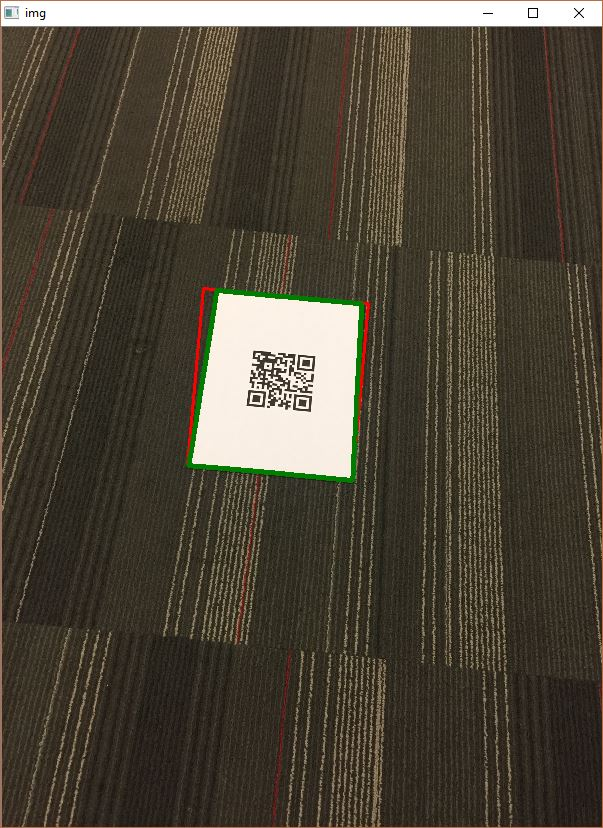
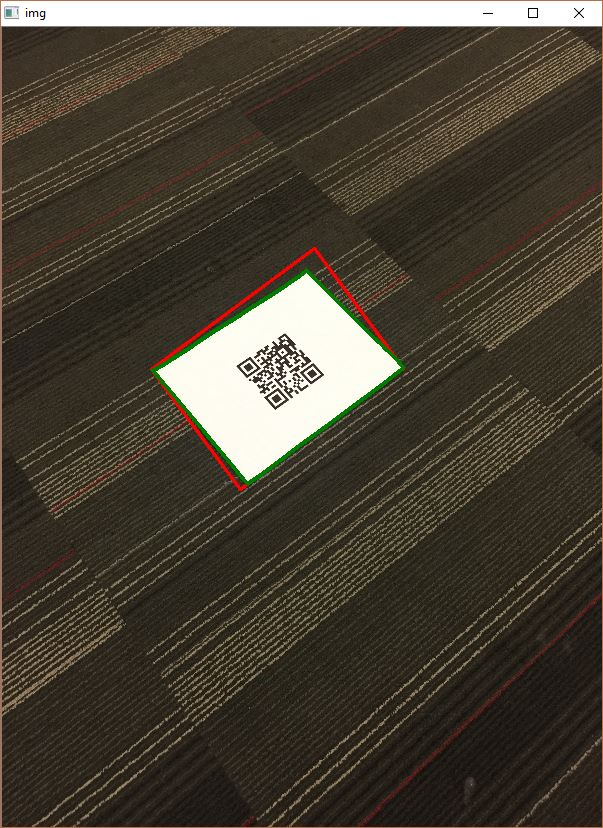
DroneDeploy coding challenge

diff --git a/drone.py b/drone.py
@@ -1,17 +1,40 @@
+'''
+Author: Jordan Ott
+DroneDeploy Coding Test
+
+Method
+# Using OpenCV
+# we can use pixel scaling to tell us our distance from the barcode
+#	+ we know the barcode is printed on an 8.5 by 11 inch piece of paper
+#	+ at 1 foot away the paper is 450 by 580 px
+# 	+ at 2 feet away the paper is 219 by 285 px
+# 	+ measuring the dimensions of the paper we can use these scaling factors to tell how far away the photo was taken
+# find 'skew' between the front of the paper and the back of the paper
+# 	+ this value in combination with our distance from the paper will tell us what angle we are looking at the paper from
+# 	+ i.e. directly over it or some angle x from it
+# lastly we will need to detect the three smaller squares within the barcode
+# 	+ this will allow us to find how the barcode is rotated and will give us our third position
+'''
 import cv2
 import numpy as np
+import math
 
 # read in image... opencv converts to numpy ndarray
-img = cv2.imread('images/IMG_6722.jpg')
+img = cv2.imread('images/IMG_6723.jpg')
 img = cv2.resize(img, (600, 800))   
 
+def mid_point(point_A, point_B):
+	return [(point_A[0]+point_B[0])/2, (point_A[1]+point_B[1])/2]
+
+def distance(point_A, point_B):
+	return math.sqrt( (point_A[0] - point_B[0])**2 + (point_A[1] - point_B[1])**2 )
 # convert image to gray scale
 imgray = cv2.cvtColor(img,cv2.COLOR_BGR2GRAY)
 
-# threshold on image
 # note the high threshold so we are easily able to destinguish between the white paper and everything else
 # this works as long as we are not looking at an all white background
-ret,thresh = cv2.threshold(imgray,200,255,cv2.THRESH_BINARY)
+ret,thresh = cv2.threshold(imgray,190,255,cv2.THRESH_BINARY)
+
 # contouring, this helps to find the white paper
 im2, contours, hierarchy = cv2.findContours(thresh, cv2.RETR_TREE,cv2.CHAIN_APPROX_SIMPLE)
 
@@ -21,37 +44,91 @@ max_index = np.argmax(areas)
 cnt=contours[max_index]
 
 x,y,w,h = cv2.boundingRect(cnt)
-#cv2.rectangle(img,(x,y),(x+w,y+h),(0,255,0),2)
 
+# this portion will find how the barcode is rotated
+d = {}
+for c in contours:
+	# finding centers of all contours, this will help to find the 3 squares which designate the orientation of the symbol
+	M = cv2.moments(c)
+	if M["m00"] == 0:
+		continue
+	cX = int(M["m10"] / M["m00"])
+	cY = int(M["m01"] / M["m00"])
+	if d.get((cX, cY),0):
+		d[(cX, cY)] += 1
+	else:
+		d[(cX, cY)] = 1
+three_hits = []
+two_hits = []
+for key in d:
+	if d[key] == 3:
+		three_hits.append(key)
+	if d[key] == 2:
+		two_hits.append(key)
+# this will be used if the rotation of the barcode is necassary, for now I will use the rotation of the rectangle 
+if len(three_hits) == 3:
+	pass
+elif len(three_hits) == 2:
+	pass
+else:
+	pass
 
 rect = cv2.minAreaRect(cnt)
 box = cv2.boxPoints(rect)
+
 box = np.int0(box)
 cv2.drawContours(img,[box],0,(0,0,255),2)
+angle = rect[2]
 
-# method to find corners
-def find_difference_in_rectangle():
-	# calculate approximate distance from the minAreaRect we found about to the points contouring the sheet of paper
-	# we use these numbers in conjunction with the pixel scale distance to tell how much our view of the paper is skewed
-	# this will tell us at what angle we are viewing the image
+min_dist = 1000
+# here we find the distance, in pixels, from the contour corner to the bounded rectangle
+for point in box:
+	temp_dist = distance(cnt[0][0],point)
+	min_dist = min(min_dist,temp_dist)
+# the min_distance will be used to show the amount of skew in the image due to the angle the phone is at relative to the barcode
 
-def find_pixel_scale():
-	# find center of barcode
-	# count number of pixels to edge of barcode
-	# this represents 4.4cm in our image
-	
 
-# we can use pixel scaling to tell us our distance from the barcode
-#	+ i.e. from the center of the barcode to the edge it is roughly 4.4cm we use those amount of pixels to scale the rest of the image
-# 	+ this value will tell us how far away we are
-# find 'skew' between the front of the paper and the back of the paper
-# 	+ this value in combination with our distance from the paper will tell us what angle we are looking at the paper from
-# 	+ i.e. directly over it or some angle x from it
-# lastly we will need to detect the three smaller squares within the barcode
-# 	+ this will allow us to find how the barcode is rotated and will give us our third position
+# here we use the bounded rectangle box to determine how far away from the barcode the camera is in feet
+A = box[0]
+B = box[1]
+C = box[2]
+D = box[3]
 
-# the combination of these three points will allow us to find the (x,y,z) coordinate at which the picture was taken
+A_B = mid_point(A,B)
+C_D = mid_point(C,D)
 
+A_D = mid_point(A,D)
+B_C = mid_point(B,C)
+
+AD_BC_dist = distance(A_D,B_C)
+AB_CD_dist = distance(A_B,C_D)
+
+if AD_BC_dist > AB_CD_dist:
+	width = AD_BC_dist
+	height = AD_BC_dist
+else:
+	width = AD_BC_dist
+	height = AD_BC_dist
+
+# at 1 foot away the paper appears 450 by 580 pixels
+# this is needed for a depth ratio
+width_ratio_1foot = 450
+height_ratio_1foot = 580
+# at 2 feet away the paper appears 219 by 285 pixels 
+width_ratio_2foot = 219
+height_ratio_2foot = 285
+
+# use scaling factors from 1 foot and 2 feet 
+one_foot_height = 1/(height/height_ratio_1foot)
+one_foot_width = 1/(width/width_ratio_1foot)
+
+two_foot_height = 2/(height/height_ratio_2foot)
+two_foot_width = 2/(width/width_ratio_2foot)
+
+# we take the average of all four
+distance_away = (one_foot_width + one_foot_height + two_foot_width + two_foot_height)/4
+
+print("Image was taken {0:.2f} feet away, {1:.2f} degrees from birds eye view and the barcode is rotated {2:.2f} degrees".format(distance_away,min_dist,angle))
 
 cv2.drawContours(img, contours, max_index, (0,125,0), 3)
 cv2.imshow("img",img)
